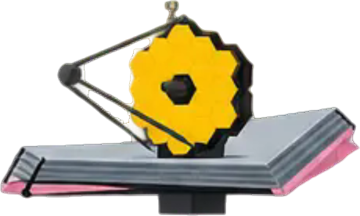
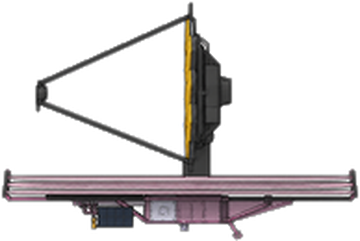
Sprites de perfil, round robin y hovering en todos los objetos
Claude-Session: https://claude.ai/code/session_01HzcLU7UAVJ8SL338GQnGNt

diff --git a/index.html b/index.html
@@ -420,21 +420,21 @@ const FX = {
 };
 const RED="#FF3B3B", GRN="#3BFF7A", WHT="#FFFFFF";
 const OBJS = [
-  ["xwing",28, FX.flame(12,30,18)+FX.flame(12,64,18)],
-  ["tie",20,""], ["enterprise",190, FX.glow(97,10,10,8,180)+FX.glow(37,88,10,8,180)], ["falcon",74, FX.glow(97,55,12,40,180)], ["discovery",150,""],
-  ["hubble",30, FX.blink(12,62,RED)+FX.blink(86,38,GRN,.5)+FX.blink(50,18,WHT,1)],
-  ["gansos",30,""], ["boba",18, FX.flame(50,82,20,-90)], ["superman",18,""], ["et",18,""], ["frisbee",12,""], ["pelota",12,""],
-  ["dron",12, FX.rotor(10,18,26)+FX.rotor(90,18,26)+FX.rotor(38,6,22)+FX.rotor(62,6,22)],
+  ["xwing",28, FX.flame(96,30,16,180)+FX.flame(96,70,16,180)],
+  ["tie",20,""], ["enterprise",190, FX.glow(98,22,10,8,180)+FX.glow(76,84,8,6,180)], ["falcon",74, FX.glow(99,50,12,30,180)], ["discovery",150,""],
+  ["hubble",30, FX.blink(36,3,RED)+FX.blink(36,97,GRN,.5)+FX.blink(90,48,WHT,1)],
+  ["gansos",30,""], ["boba",18, FX.flame(98,52,22,180)], ["superman",18,""], ["et",18,""], ["frisbee",12,""], ["pelota",12,""],
+  ["dron",12, FX.rotor(12,7,30)+FX.rotor(86,7,30)],
   ["colibri",10,""], ["pegaso",20,""], ["ardilla",12,""], ["nazca",60,""], ["voyager",16,""],
-  ["webb",44, FX.blink(72,18,RED)+FX.blink(22,72,GRN,.7)],
-  ["iss",170, FX.blink(4,46,RED)+FX.blink(96,46,GRN,.5)+FX.blink(50,32,WHT,1)],
+  ["webb",44, FX.blink(50,4,RED)+FX.blink(8,80,GRN,.7)+FX.blink(95,80,WHT,1.3)],
+  ["iss",170, FX.blink(3,30,RED)+FX.blink(97,30,GRN,.5)+FX.blink(50,42,WHT,1)],
   ["grinch",20, FX.prop(4,50,30,.25)], ["helicoptero",28, FX.rotor(47,17,70)+FX.prop(94,50,14,.2)], ["globo",40,""], ["avionpapel",12,""], ["parapente",22,""], ["wingsuit",18,""],
   ["saturn",30, FX.flame(50,99,40,-90)],
   ["acrobatico",18, FX.prop(5,47,30,.25)], ["ciguena",14,""], ["plusultra",46, FX.prop(16,20,22,.3)], ["spirit",30, FX.prop(6,50,28,.25)],
   ["aladelta",22,""], ["wright",26, FX.prop(44,52,22,.25)],
   ["sputnik",12, FX.blink(44,42,RED)+FX.blink(56,52,WHT,.6)], ["pterodactilo",22,""],
-  ["globo2",40,""], ["planeador",32,""], ["falcon2",74, FX.glow(92,52,12,40,180)],
-  ["destroyer",240, FX.glow(97,62,12,26,180)+FX.glow(96,54,8,10,180)+FX.glow(96,72,8,10,180)],
+  ["globo2",40,""], ["planeador",32,""],
+  ["destroyer",240, FX.glow(98,63,12,22,180)+FX.glow(97,53,8,8,180)+FX.glow(97,73,8,8,180)],
   ["wright2",26, FX.prop(60,50,22,.25)], ["delorean",16, FX.flame(98,84,30,180)+FX.flame(96,92,20,180)],
   ["parapente2",22,""], ["saturn2",200, FX.flame(100,50,26,180)],
   ["ovni",42, FX.blink(24,62,RED)+FX.blink(50,68,WHT,.45)+FX.blink(76,62,GRN,.9)+FX.glow(50,78,30,12,-90)],
@@ -456,7 +456,8 @@ function santaHTML(){
 }
 let sceneDay = Math.random() < 0.5;
 function stopScene(){ sceneTimers.forEach(clearTimeout); sceneTimers = []; }
-function bag(arr){ let b = []; return ()=>{ if(!b.length) b = arr.slice().sort(()=>Math.random()-0.5); return b.pop(); }; }
+// round robin: siempre el mismo orden, uno tras otro
+function bag(arr){ let i = 0; return ()=>arr[i++ % arr.length]; }
 const nextObj = bag(OBJS.filter(o=>o[0]!=="grinch"));
 function startScene(){
   stopScene();
@@ -509,7 +510,8 @@ function startScene(){
       const [name, base, fx] = nextObj();
       const w = Math.max(10, Math.round(base * (0.8 + Math.random()*0.4) * (front ? 1.25 : 0.85)));
       const img = new Image(); img.src = `/obj/${name}.png`;
-      const go = ()=>spawn(`<img src="/obj/${name}.png" alt="">${fx}`, w, top, dur, front);
+      // todo tiene un vaivén sutil, nada pasa recto
+      const go = ()=>spawn(`<span class="part" style="left:0;width:100%;animation-duration:${(1.6+Math.random()*1.8).toFixed(2)}s"><img src="/obj/${name}.png" alt="">${fx}</span>`, w, top, dur, front);
       if(img.complete) go(); else { img.onload = go; img.onerror = ()=>{}; }
     }
     sceneTimers.push(setTimeout(thing, 10000 + Math.random()*5000)); };
